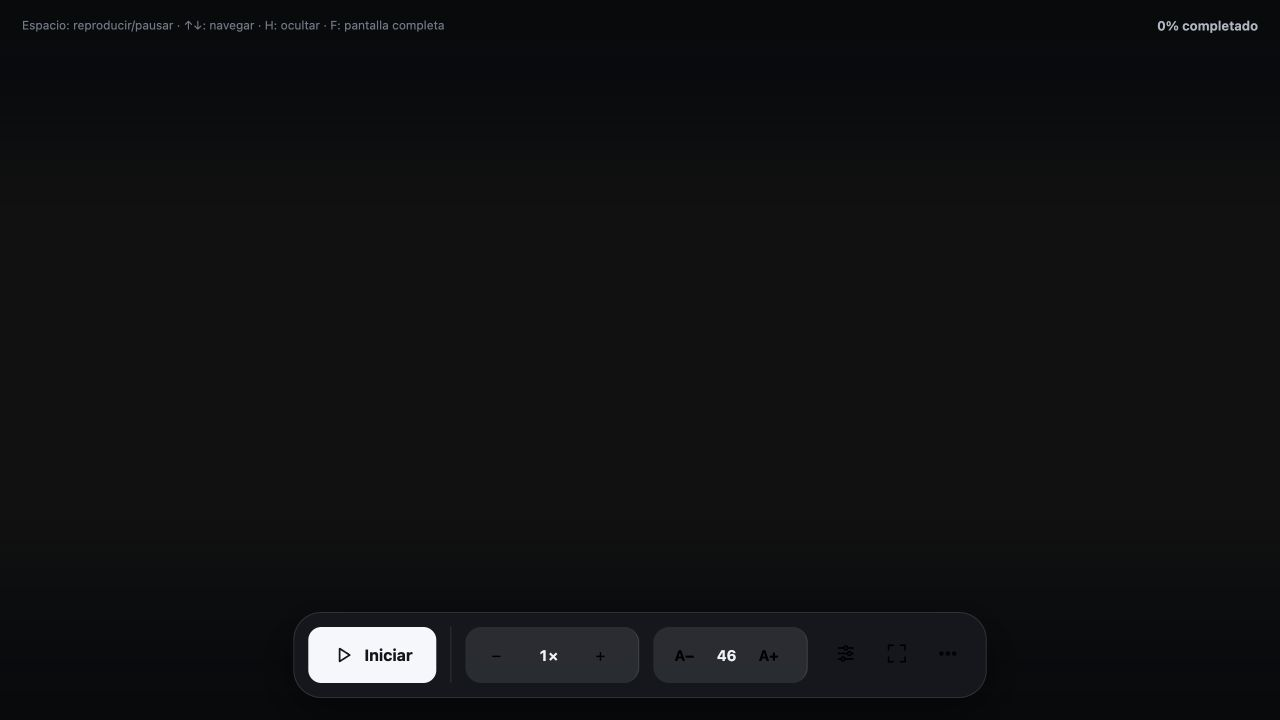
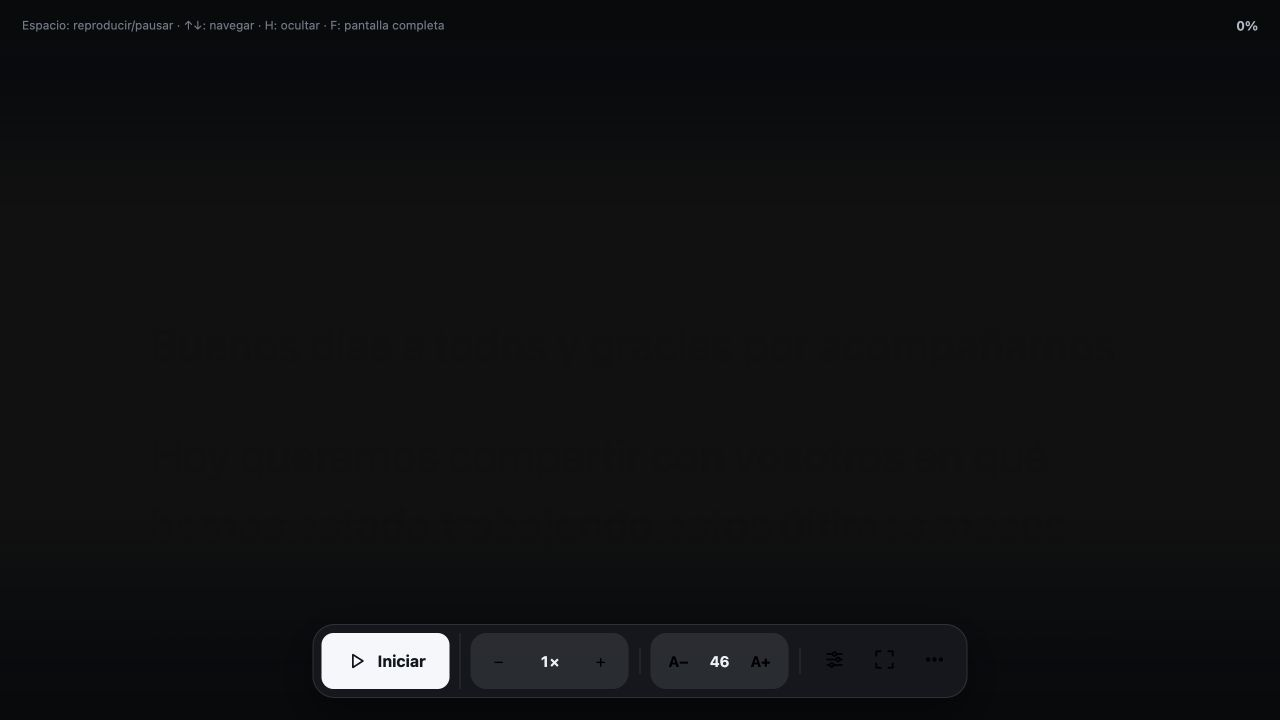
Fix mobile autoscroll and refine toolbar spacing

diff --git a/src/styles.css b/src/styles.css
@@ -30,7 +30,7 @@ html, body, #app { height: 100%; height: 100dvh; margin: 0; overflow: hidden; }
 body { background: var(--bg); color: var(--text); transition: background .2s, color .2s; }
 button, textarea, input { font: inherit; color: inherit; }
 button:focus-visible, textarea:focus-visible, input:focus-visible { outline: 3px solid var(--accent); outline-offset: 2px; }
-.reader { position: fixed; inset: 0; overflow-y: auto; scroll-behavior: smooth; scrollbar-width: none; overscroll-behavior: contain; -webkit-overflow-scrolling: touch; }
+.reader { position: fixed; inset: 0; overflow-y: auto; scrollbar-width: none; overscroll-behavior: contain; }
 .reader::-webkit-scrollbar { display: none; }
 .script { width: calc(100vw - 40px); margin: 0 auto; padding: 43vh 0 48vh; font-family: ui-sans-serif, system-ui, -apple-system, "Segoe UI", Arial, sans-serif; font-weight: 530; letter-spacing: -.01em; }
 .script p { margin: 0 0 .9em; white-space: pre-line; }
@@ -39,11 +39,11 @@ button:focus-visible, textarea:focus-visible, input:focus-visible { outline: 3px
 .shade { position: fixed; z-index: 3; left: 0; right: 0; height: 30vh; pointer-events: none; }
 .shade.top { top: 0; background: linear-gradient(var(--bg) 8%, rgba(var(--bg-rgb),.92) 36%, transparent); }
 .shade.bottom { bottom: 0; background: linear-gradient(transparent, rgba(var(--bg-rgb),.94) 74%, var(--bg)); }
-.toolbar { position: fixed; z-index: 10; left: 50%; bottom: calc(22px + env(safe-area-inset-bottom)); transform: translateX(-50%); display: flex; align-items: center; gap: 0; max-width: calc(100vw - 24px); padding: 14px; border: 1px solid var(--border); border-radius: 28px; background: var(--surface); box-shadow: 0 16px 50px var(--shadow); -webkit-backdrop-filter: blur(18px); backdrop-filter: blur(18px); transition: opacity .2s, transform .2s, background .2s; }
+.toolbar { position: fixed; z-index: 10; left: 50%; bottom: calc(22px + env(safe-area-inset-bottom)); transform: translateX(-50%); display: flex; align-items: center; max-width: calc(100vw - 24px); padding: 8px; border: 1px solid var(--border); border-radius: 22px; background: var(--surface); box-shadow: 0 16px 50px var(--shadow); -webkit-backdrop-filter: blur(18px); backdrop-filter: blur(18px); transition: opacity .2s, transform .2s, background .2s; }
 .controls-hidden .toolbar { opacity: 0; pointer-events: none; transform: translate(-50%,18px); }
-.group { display: flex; align-items: center; gap: 3px; margin-right: 14px; padding-right: 14px; border-right: 1px solid var(--border); }
+.group { position: relative; display: flex; align-items: center; gap: 2px; margin-right: 10px; padding-right: 10px; border-right: 1px solid var(--border); }
 .group:last-child { margin: 0; padding: 0; border: 0; }
-.btn { height: 48px; min-width: 48px; border: 0; border-radius: 13px; background: transparent; cursor: pointer; padding: 0 14px; transition: background .15s, color .15s; }
+.btn { height: 48px; min-width: 48px; border: 0; border-radius: 12px; background: transparent; cursor: pointer; padding: 0 13px; transition: background .15s, color .15s; }
 .btn:hover { background: var(--hover); }
 .btn.active { color: var(--accent); background: var(--accent-soft); }
 .btn.primary { min-width: 128px; height: 56px; display: inline-flex; align-items: center; justify-content: center; gap: 10px; background: var(--primary); color: var(--primary-text); font-size: 16px; font-weight: 720; }
@@ -51,7 +51,8 @@ button:focus-visible, textarea:focus-visible, input:focus-visible { outline: 3px
 .btn.primary:hover { filter: brightness(.94); }
 .btn.labelled { display: flex; align-items: center; gap: 7px; }
 .btn.labelled span { font-size: 17px; }
-.toolbar .group:nth-child(2), .font-controls { min-height: 56px; padding-left: 7px; border-radius: 16px; background: var(--hover); }
+.speed-controls, .font-controls { min-height: 56px; margin-right: 22px; padding: 4px; border: 0; border-radius: 16px; background: var(--hover); }
+.speed-controls::after, .font-controls::after { content: ''; position: absolute; top: 15px; right: -12px; width: 1px; height: 26px; background: var(--border); }
 .value { min-width: 50px; text-align: center; color: var(--text); font-size: 15px; font-weight: 680; font-variant-numeric: tabular-nums; }
 .font-value { min-width: 30px; }
 .text-size { font-size: 15px; font-weight: 700; }
@@ -62,7 +63,7 @@ button:focus-visible, textarea:focus-visible, input:focus-visible { outline: 3px
 .controls-hidden .show-controls { transform: translateX(-50%); }
 .hint { position: fixed; z-index: 5; top: 18px; left: 22px; color: var(--faint); font-size: 12px; white-space: nowrap; }
 .controls-hidden .hint { opacity: 0; }
-.completion { position: fixed; z-index: 5; top: 18px; right: 22px; color: var(--muted); font-size: 13px; font-weight: 650; font-variant-numeric: tabular-nums; }
+.completion { position: fixed; z-index: 5; top: calc(18px + env(safe-area-inset-top)); right: 22px; color: var(--muted); font-size: 13px; font-weight: 650; font-variant-numeric: tabular-nums; }
 .popover-dismiss { position: fixed; z-index: 8; inset: 0; width: 100%; height: 100%; padding: 0; border: 0; background: transparent; cursor: default; }
 .popover { position: fixed; z-index: 12; bottom: calc(86px + env(safe-area-inset-bottom)); padding: 16px; border: 1px solid var(--border); border-radius: 16px; background: var(--surface); box-shadow: 0 18px 54px var(--shadow); -webkit-backdrop-filter: blur(18px); backdrop-filter: blur(18px); }
 .settings { left: 50%; width: min(370px, calc(100vw - 24px)); transform: translateX(-50%); }
@@ -87,7 +88,7 @@ button:focus-visible, textarea:focus-visible, input:focus-visible { outline: 3px
 .segmented button { min-height: 36px; border: 0; border-radius: 8px; background: transparent; color: var(--muted); cursor: pointer; font-size: 12px; }
 .segmented button.active { background: var(--surface-solid); color: var(--text); box-shadow: 0 1px 5px var(--shadow); }
 .modal { position: fixed; z-index: 20; inset: 0; display: grid; place-items: center; background: var(--modal); -webkit-backdrop-filter: blur(6px); backdrop-filter: blur(6px); }
-.editor { width: min(820px, calc(100vw - 28px)); height: min(760px, calc(100vh - 28px)); display: flex; flex-direction: column; border: 1px solid var(--border); border-radius: 20px; background: var(--surface-solid); overflow: hidden; box-shadow: 0 30px 100px var(--shadow); }
+.editor { width: min(820px, calc(100vw - 28px)); height: min(760px, calc(100dvh - 28px)); display: flex; flex-direction: column; border: 1px solid var(--border); border-radius: 20px; background: var(--surface-solid); overflow: hidden; box-shadow: 0 30px 100px var(--shadow); }
 .editor header, .editor footer { display: flex; align-items: center; padding: 14px 20px; border-bottom: 1px solid var(--border); }
 .editor header { justify-content: space-between; }
 .editor h2 { margin: 0; font-size: 17px; }
@@ -96,19 +97,22 @@ button:focus-visible, textarea:focus-visible, input:focus-visible { outline: 3px
 .editor textarea { flex: 1; width: 100%; resize: none; border: 0; outline: 0; padding: 24px; background: transparent; color: var(--text); font-size: 18px; line-height: 1.6; }
 .editor .save { background: var(--primary); color: var(--primary-text); font-weight: 700; }
 @media (max-width: 640px) {
-  .toolbar { width: max-content; max-width: calc(100vw - 12px); bottom: calc(9px + env(safe-area-inset-bottom)); padding: 7px; border-radius: 20px; }
-  .group { margin-right: 5px; padding-right: 5px; }
-  .btn { padding: 0 9px; }
+  .toolbar { width: max-content; max-width: calc(100vw - 12px); bottom: calc(8px + env(safe-area-inset-bottom)); padding: 6px; border-radius: 18px; }
+  .group { margin-right: 4px; padding-right: 4px; }
+  .btn { min-width: 44px; height: 44px; padding: 0 8px; }
   .btn.primary { min-width: 52px; width: 52px; height: 52px; padding: 0; }
-  .toolbar .group:nth-child(2) { min-height: 52px; padding-left: 2px; border-radius: 14px; }
+  .speed-controls { min-height: 52px; margin-right: 4px; padding: 4px 2px; border-radius: 14px; }
+  .speed-controls::after { display: none; }
   .play-label, .font-controls, .fullscreen-action { display: none; }
   .value { min-width: 34px; }
+  .actions { gap: 0; }
+  .icon-action { width: 44px; padding: 0; }
   .script { width: calc(100vw - 32px); }
   .popover { bottom: 76px; }
   .settings { width: calc(100vw - 16px); }
   .more-options { right: 8px; }
   .hint { display: none; }
-  .completion { top: 12px; right: 12px; font-size: 12px; }
+  .completion { top: calc(12px + env(safe-area-inset-top)); right: 12px; font-size: 12px; }
   .editor .autosave { max-width: 190px; }
 }
-@media (prefers-reduced-motion: reduce) { .reader { scroll-behavior: auto; } * { transition-duration: 0s !important; } }
+@media (prefers-reduced-motion: reduce) { * { transition-duration: 0s !important; } }

diff --git a/src/App.svelte b/src/App.svelte
@@ -188,7 +188,7 @@
 <svelte:head><title>Teleprompter — Presenta con naturalidad</title></svelte:head>
 
 <main class:controls-hidden={controlsHidden}>
-  <div class="reader" bind:this={reader} role="region" aria-label="Texto del teleprompter" onscroll={updateProgress} onwheel={() => { playing = false; showControls(); }} ontouchstart={() => playing = false}>
+  <div class="reader" bind:this={reader} role="region" aria-label="Texto del teleprompter" onscroll={updateProgress} onwheel={() => { playing = false; showControls(); }} ontouchmove={() => { playing = false; showControls(); }}>
     <article class="script" style:font-size={`${fontSize}px`} style:max-width={`${readerWidth}px`} style:line-height={lineHeight}>
       {#each paragraphs() as paragraph}
         <p class:cue={isCue(paragraph)}>
@@ -245,7 +245,7 @@
 
   <nav class="toolbar" aria-label="Controles del teleprompter">
     <div class="group play-group"><button class="btn primary" class:active={playing} aria-label={playing ? 'Pausar desplazamiento' : 'Iniciar desplazamiento'} aria-pressed={playing} onclick={togglePlayback}>{#if playing}<svg viewBox="0 0 24 24" aria-hidden="true"><path d="M9 5v14M15 5v14" /></svg>{:else}<svg viewBox="0 0 24 24" aria-hidden="true"><path d="m8 5 11 7-11 7Z" /></svg>{/if}<span class="play-label">{playing ? 'Pausa' : 'Iniciar'}</span></button></div>
-    <div class="group"><button class="btn" aria-label="Más lento" onclick={() => changeSpeed(-.25)}>−</button><span class="value">{speed}×</span><button class="btn" aria-label="Más rápido" onclick={() => changeSpeed(.25)}>+</button></div>
+    <div class="group speed-controls"><button class="btn" aria-label="Más lento" onclick={() => changeSpeed(-.25)}>−</button><span class="value">{speed}×</span><button class="btn" aria-label="Más rápido" onclick={() => changeSpeed(.25)}>+</button></div>
     <div class="group font-controls"><button class="btn text-size" aria-label="Reducir tamaño del texto" onclick={() => changeFont(-2)}>A−</button><span class="value font-value">{fontSize}</span><button class="btn text-size" aria-label="Aumentar tamaño del texto" onclick={() => changeFont(2)}>A+</button></div>
     <div class="group actions"><button class="btn icon-action" class:active={settingsOpen} aria-label="Ajustes de lectura" title="Ajustes de lectura" aria-expanded={settingsOpen} aria-controls="reading-settings" onclick={toggleSettings}><svg viewBox="0 0 24 24" aria-hidden="true"><path d="M4 6h5M15 6h5M4 12h9M19 12h1M4 18h2M12 18h8"/><circle cx="12" cy="6" r="2"/><circle cx="16" cy="12" r="2"/><circle cx="9" cy="18" r="2"/></svg></button>{#if fullscreenSupported}<button class="btn icon-action fullscreen-action" aria-label="Pantalla completa" title="Pantalla completa (F)" onclick={toggleFullscreen}><svg viewBox="0 0 24 24" aria-hidden="true"><path d="M8 3H3v5M16 3h5v5M8 21H3v-5M16 21h5v-5"/></svg></button>{/if}<button class="btn icon-action more-action" class:active={moreOpen} aria-label="Más opciones" title="Más opciones" aria-expanded={moreOpen} aria-controls="more-options" onclick={toggleMore}><svg viewBox="0 0 24 24" aria-hidden="true"><circle cx="5" cy="12" r="1.4"/><circle cx="12" cy="12" r="1.4"/><circle cx="19" cy="12" r="1.4"/></svg></button></div>
   </nav>
